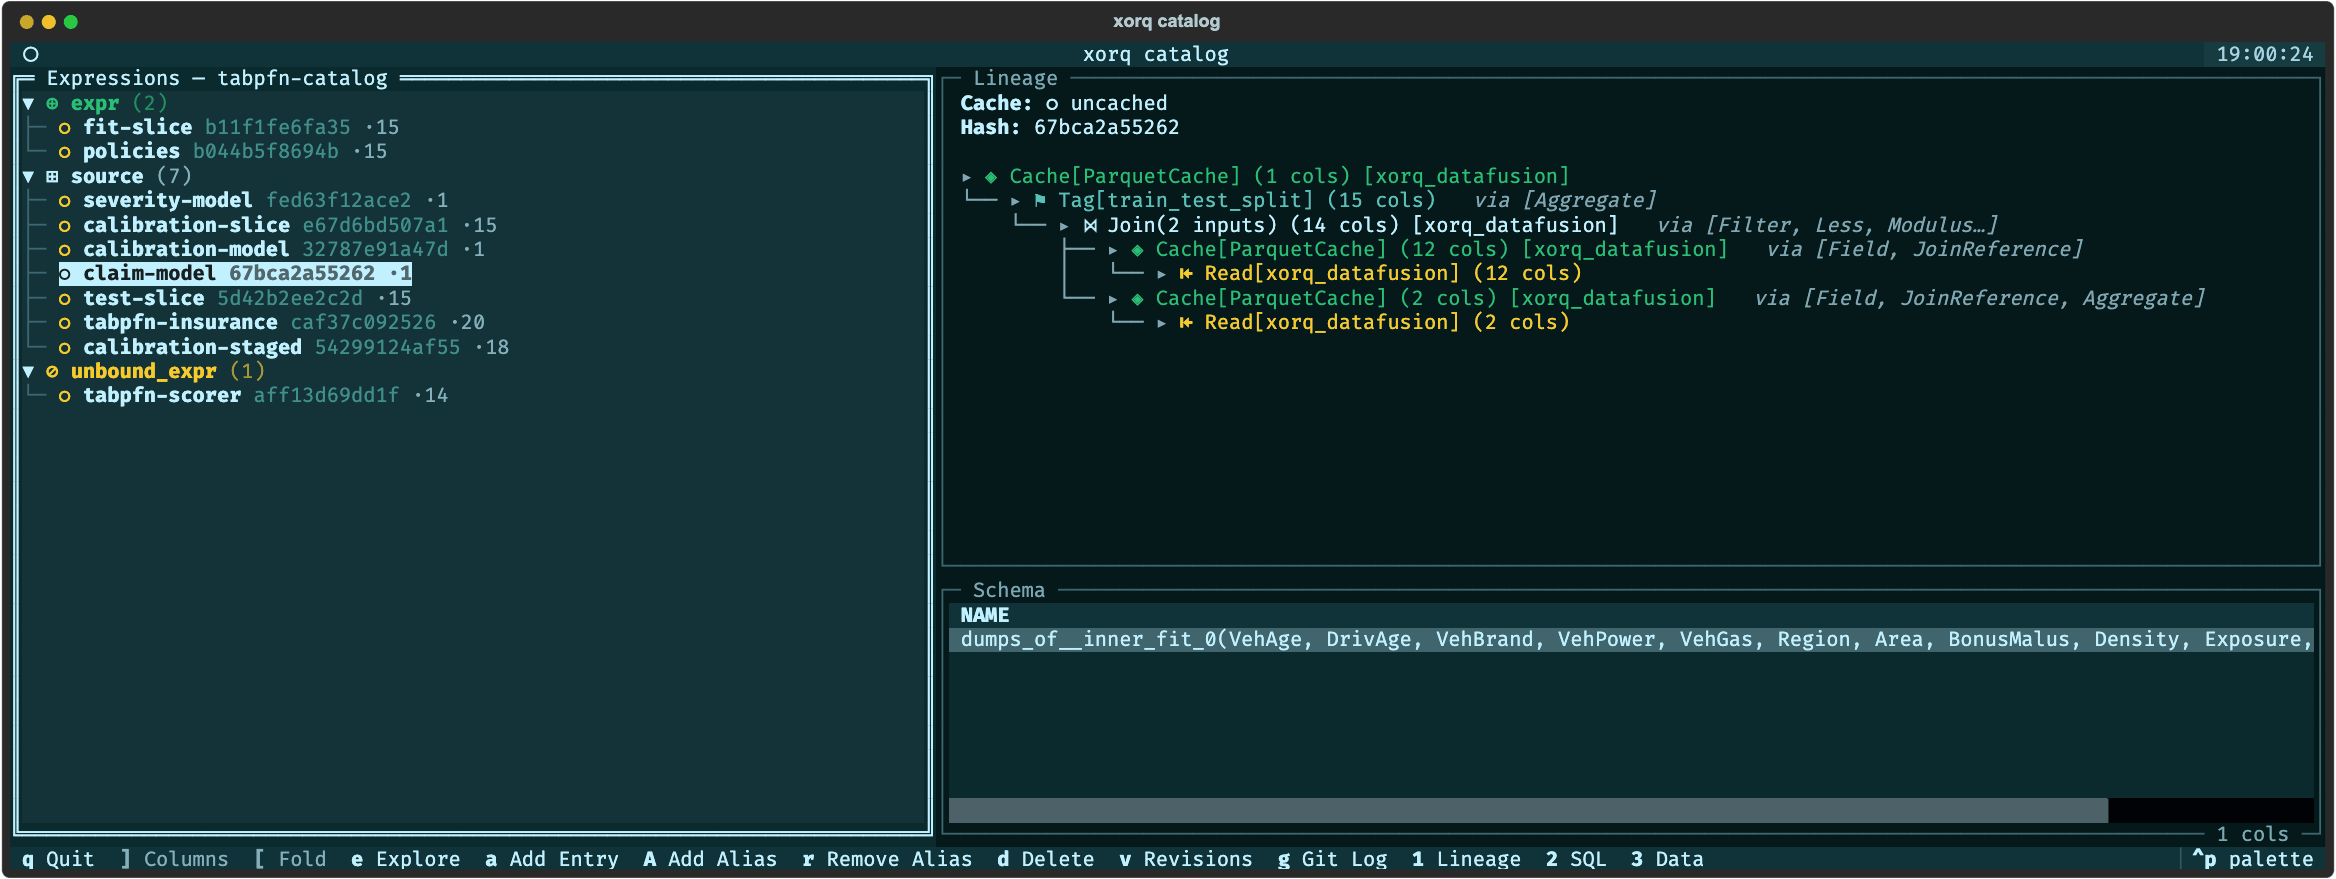
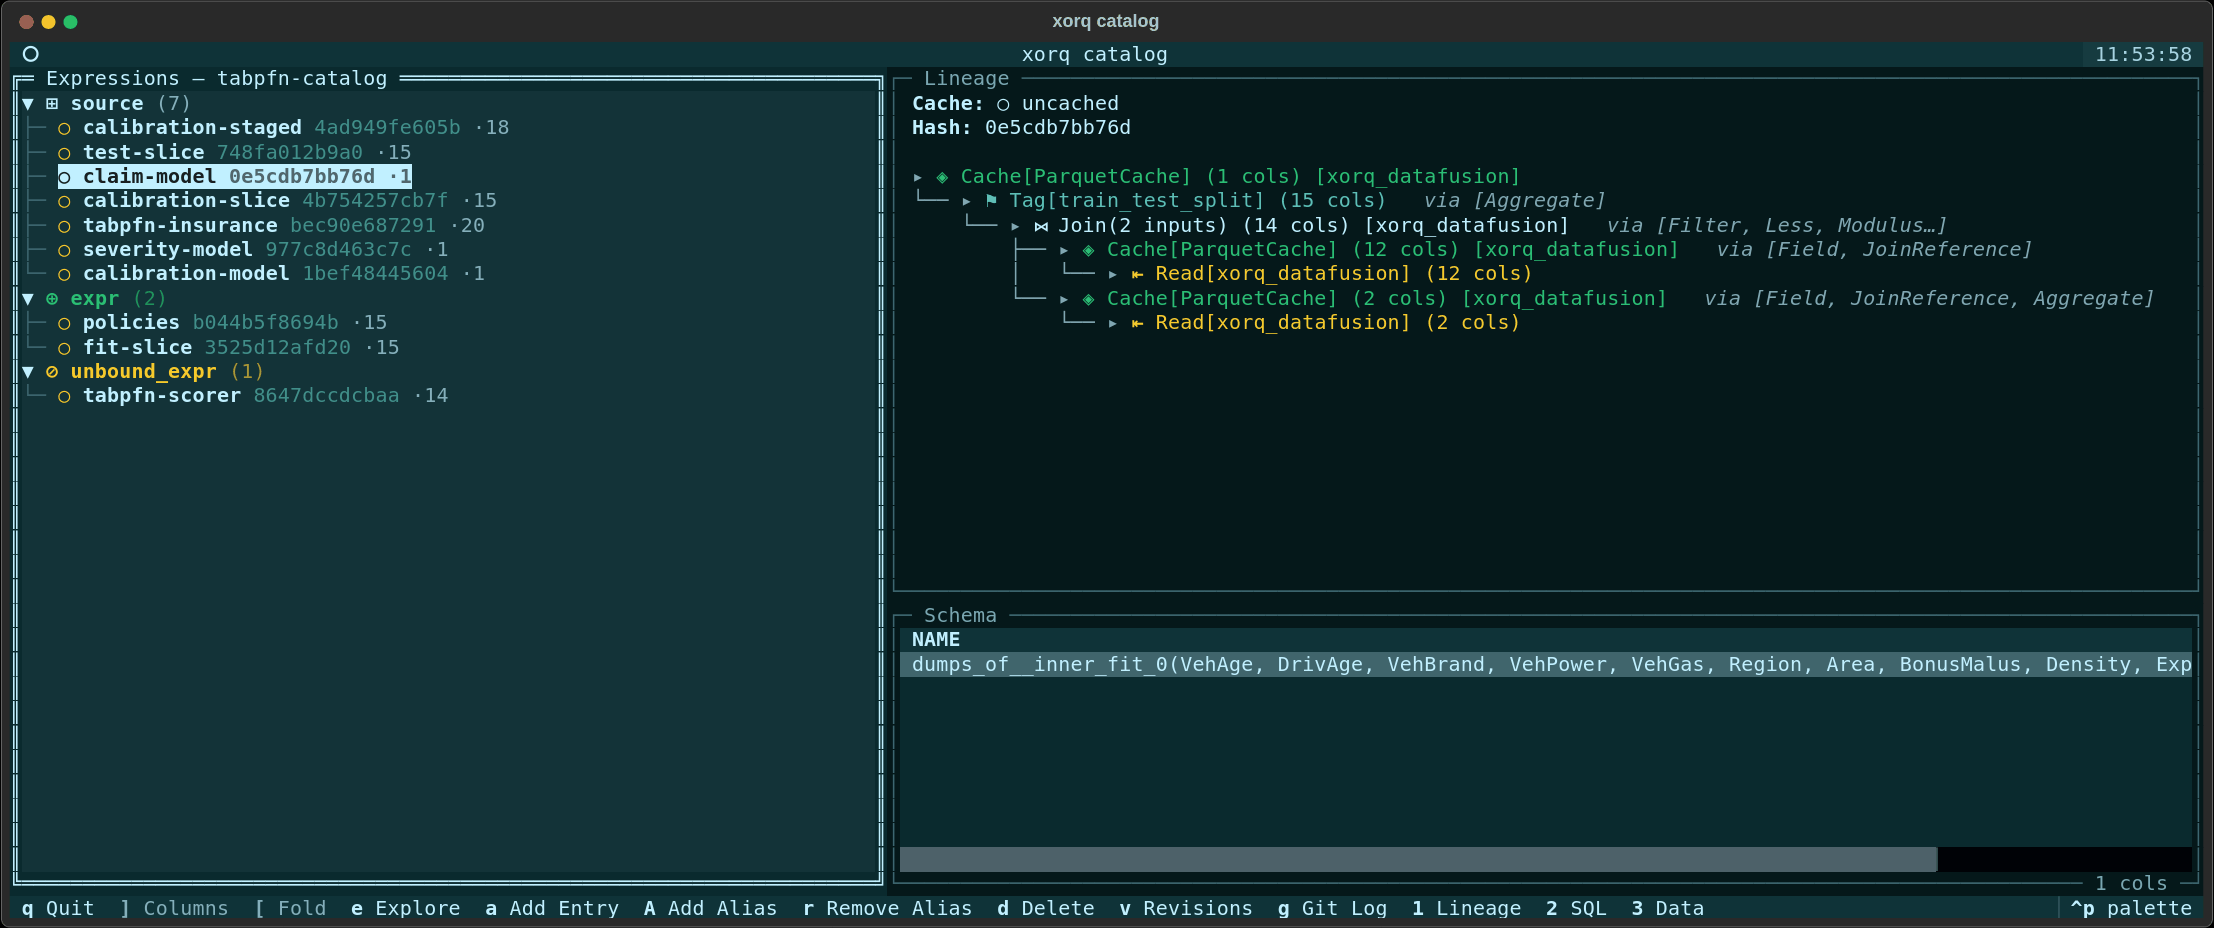
docs(readme): link the published ledger post and use its screenshots
"A Commit vs. a Ledger Entry" is live, so link it from the screenshot
caption and the learn-more list. Replace the two TUI screenshots with the
versions the published post ships, which were retaken against a rebuilt
catalog. Tighten the intro's ledger sentence to the post's definition.

Changed region(s): [[0.0, 0.0, 1.0, 1.0]]

diff --git a/README.md b/README.md
@@ -18,14 +18,15 @@ you can execute, not prose you have to reread. Entries compose, so new
 pipelines build on cataloged ones instead of starting from scratch. It turns
 ephemeral agent work (pandas scripts, sklearn pipelines, ad-hoc tables) into
 durable artifacts that any future agent or human can discover, reproduce and
-reuse. The catalog is a ledger: an append-only record where each entry is named
-by what it computes and carries its inputs and schema.
+reuse. The catalog is a ledger: each entry is one computation, defined before
+it runs and named by a hash of it, with its inputs and schema alongside.
 
 It comes with a CLI for agents and a TUI for humans with a git-native catalog.
-Below, a catalog of ten entries for an insurance pricing pipeline. The selected
-entry is the scored test set: its lineage runs through three fitted models down
-to the two source reads, next to its schema and a git log with one commit per
-entry.
+Below, the ten-entry ledger of an insurance pricing pipeline from
+[A Commit vs. a Ledger Entry](https://xorq.dev/blog/commit-vs-ledger-entry/).
+The selected entry is the scored test set: its lineage runs through three
+fitted models down to the two source reads, next to its schema and a git log
+with one commit per entry.
 
 ![xorq catalog TUI: ten entries on the left; the lineage of the scored test set down to the two source reads, its schema, and the git log with one commit per entry](docs/images/ledger-tui.png)
 
@@ -291,6 +292,7 @@ expression:
 - [A Git-Native Semantic Layer](https://xorq.dev/blog/bsl-xorq/): building a portable semantic catalog with Xorq
 - [Orientation Over Reasoning](https://xorq.dev/blog/orientation-over-reasoning/): Haiku with a Xorq catalog hits 84% on DABStep, above the Sonnet baseline
 - [Faithful, Reproducible, Wrong](https://xorq.dev/blog/faithful-reproducible-wrong/): one metric question, 900 runs, and why a reviewed entry beats a bigger model
+- [A Commit vs. a Ledger Entry](https://xorq.dev/blog/commit-vs-ledger-entry/): why an entry is one computation named by its hash, worked through with TabPFN on French motor liability
 
 ---
 
